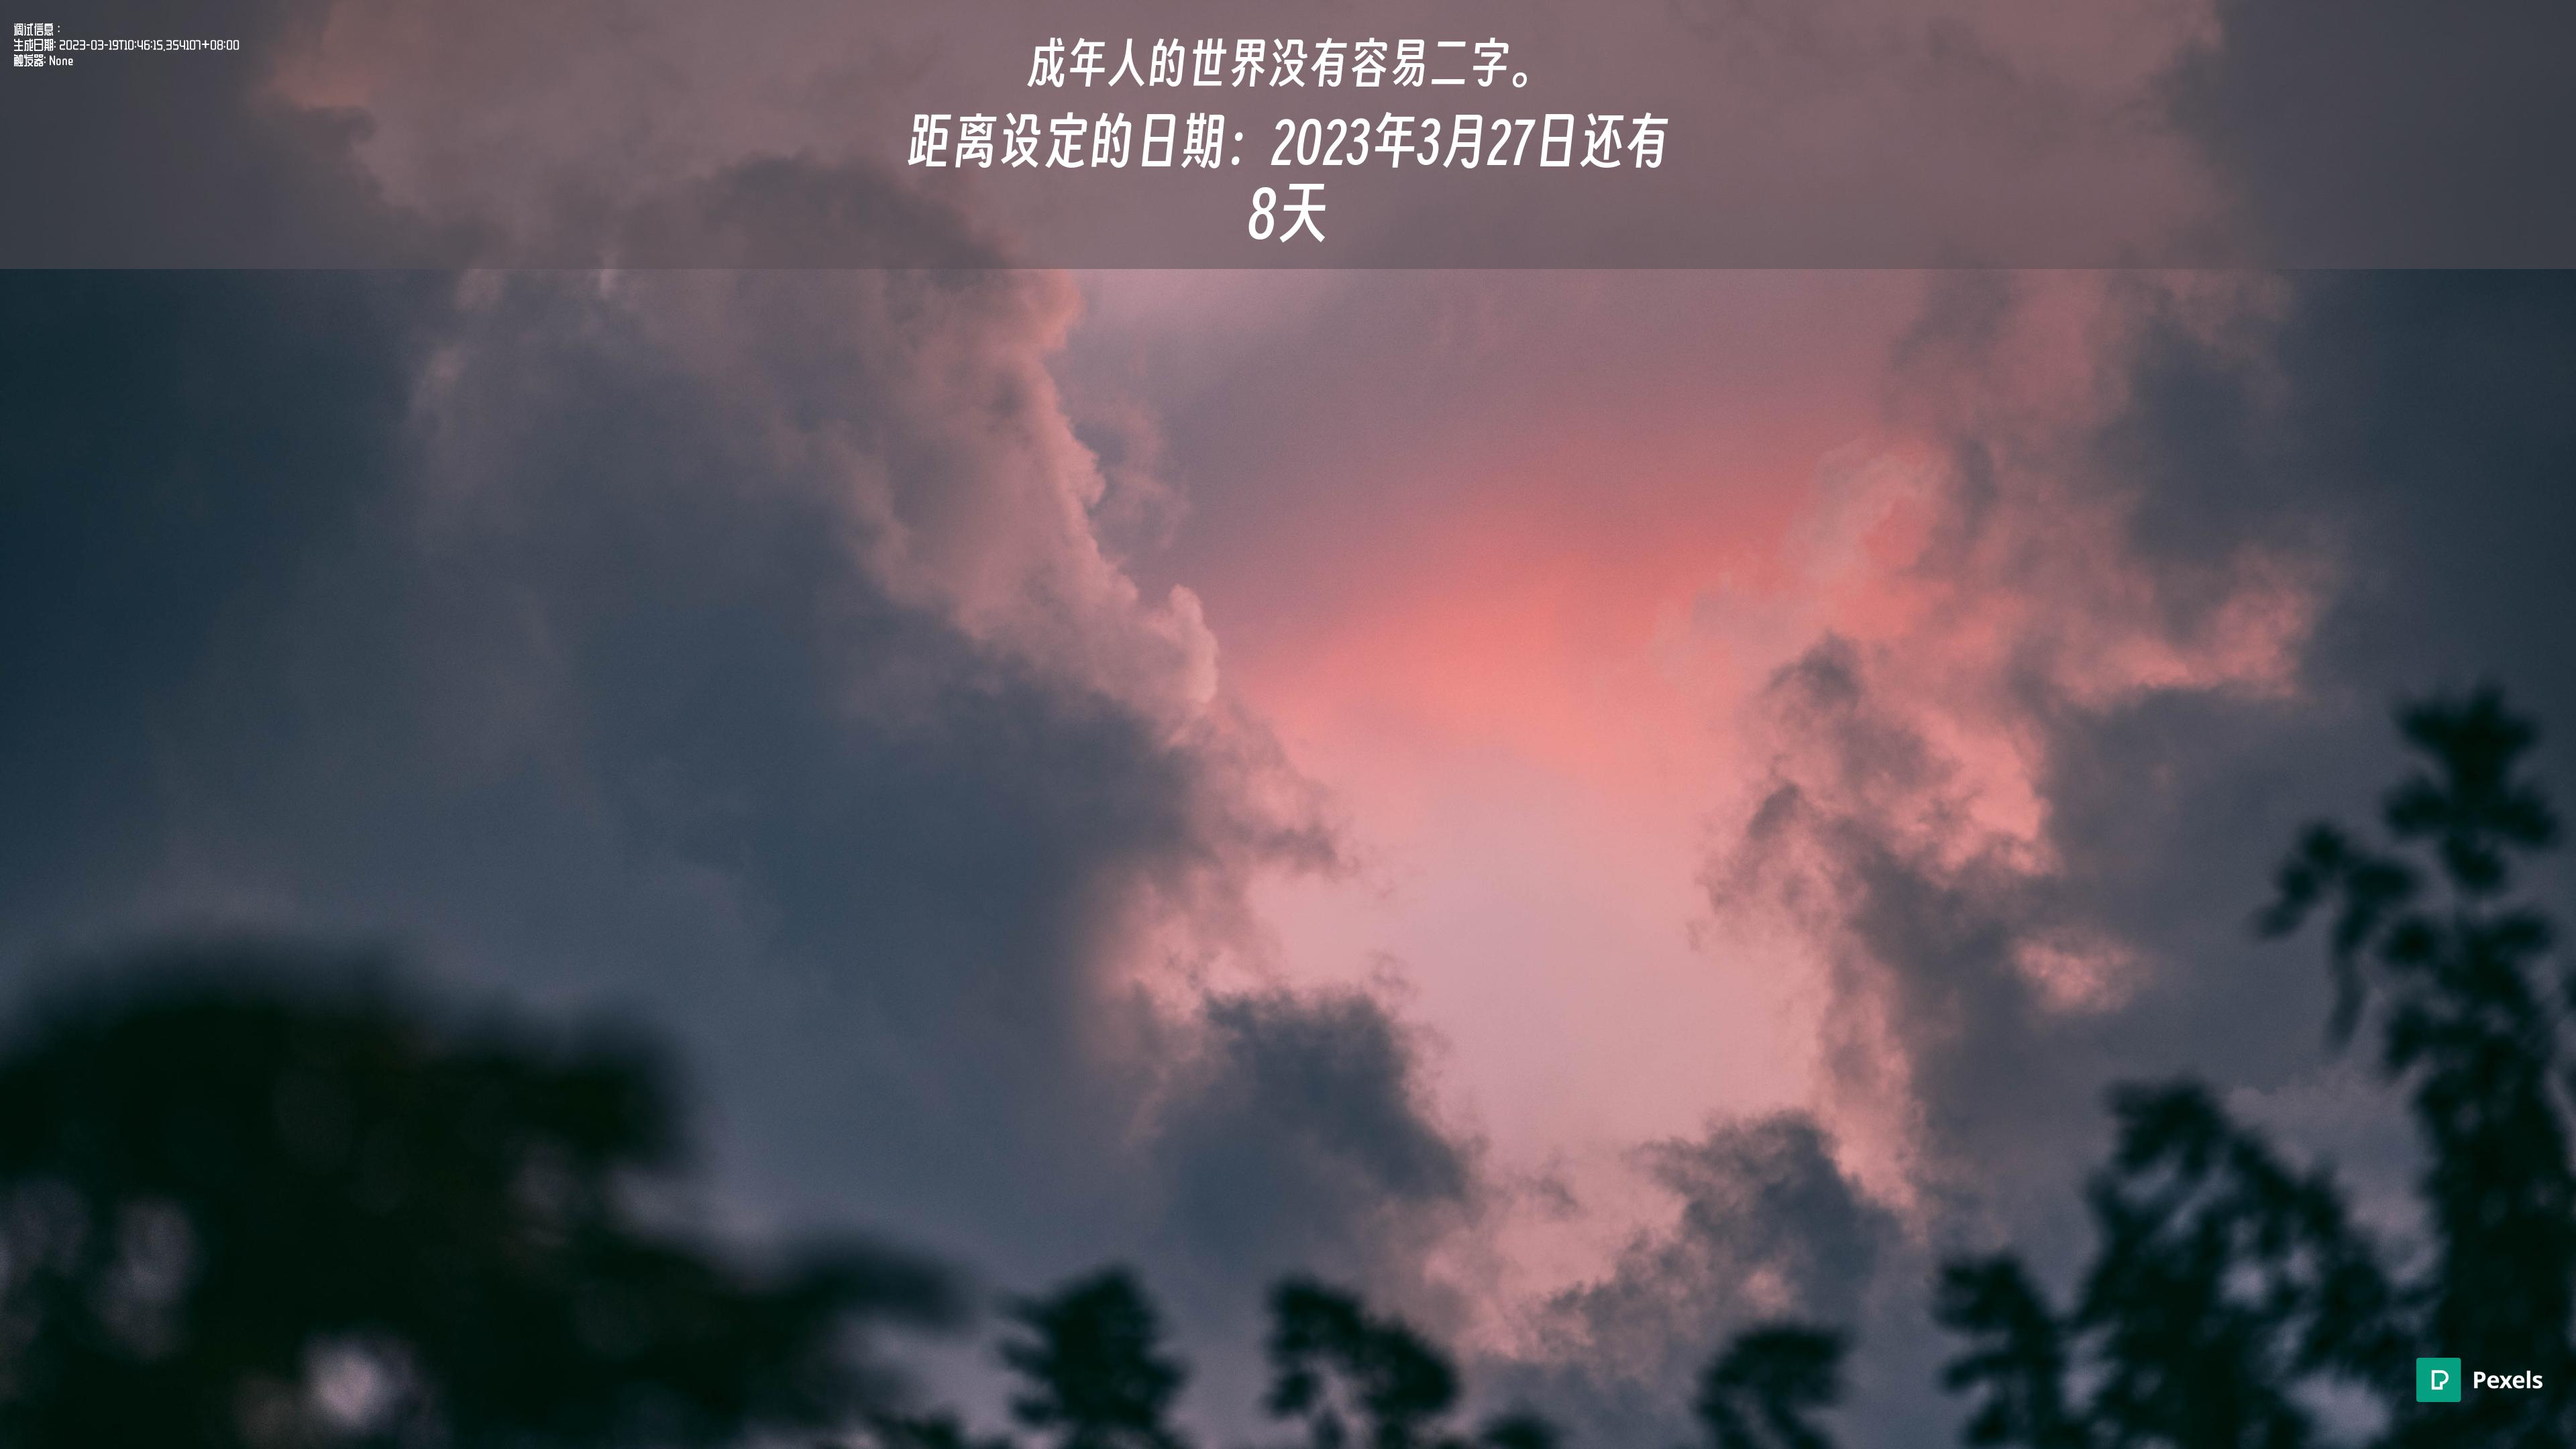
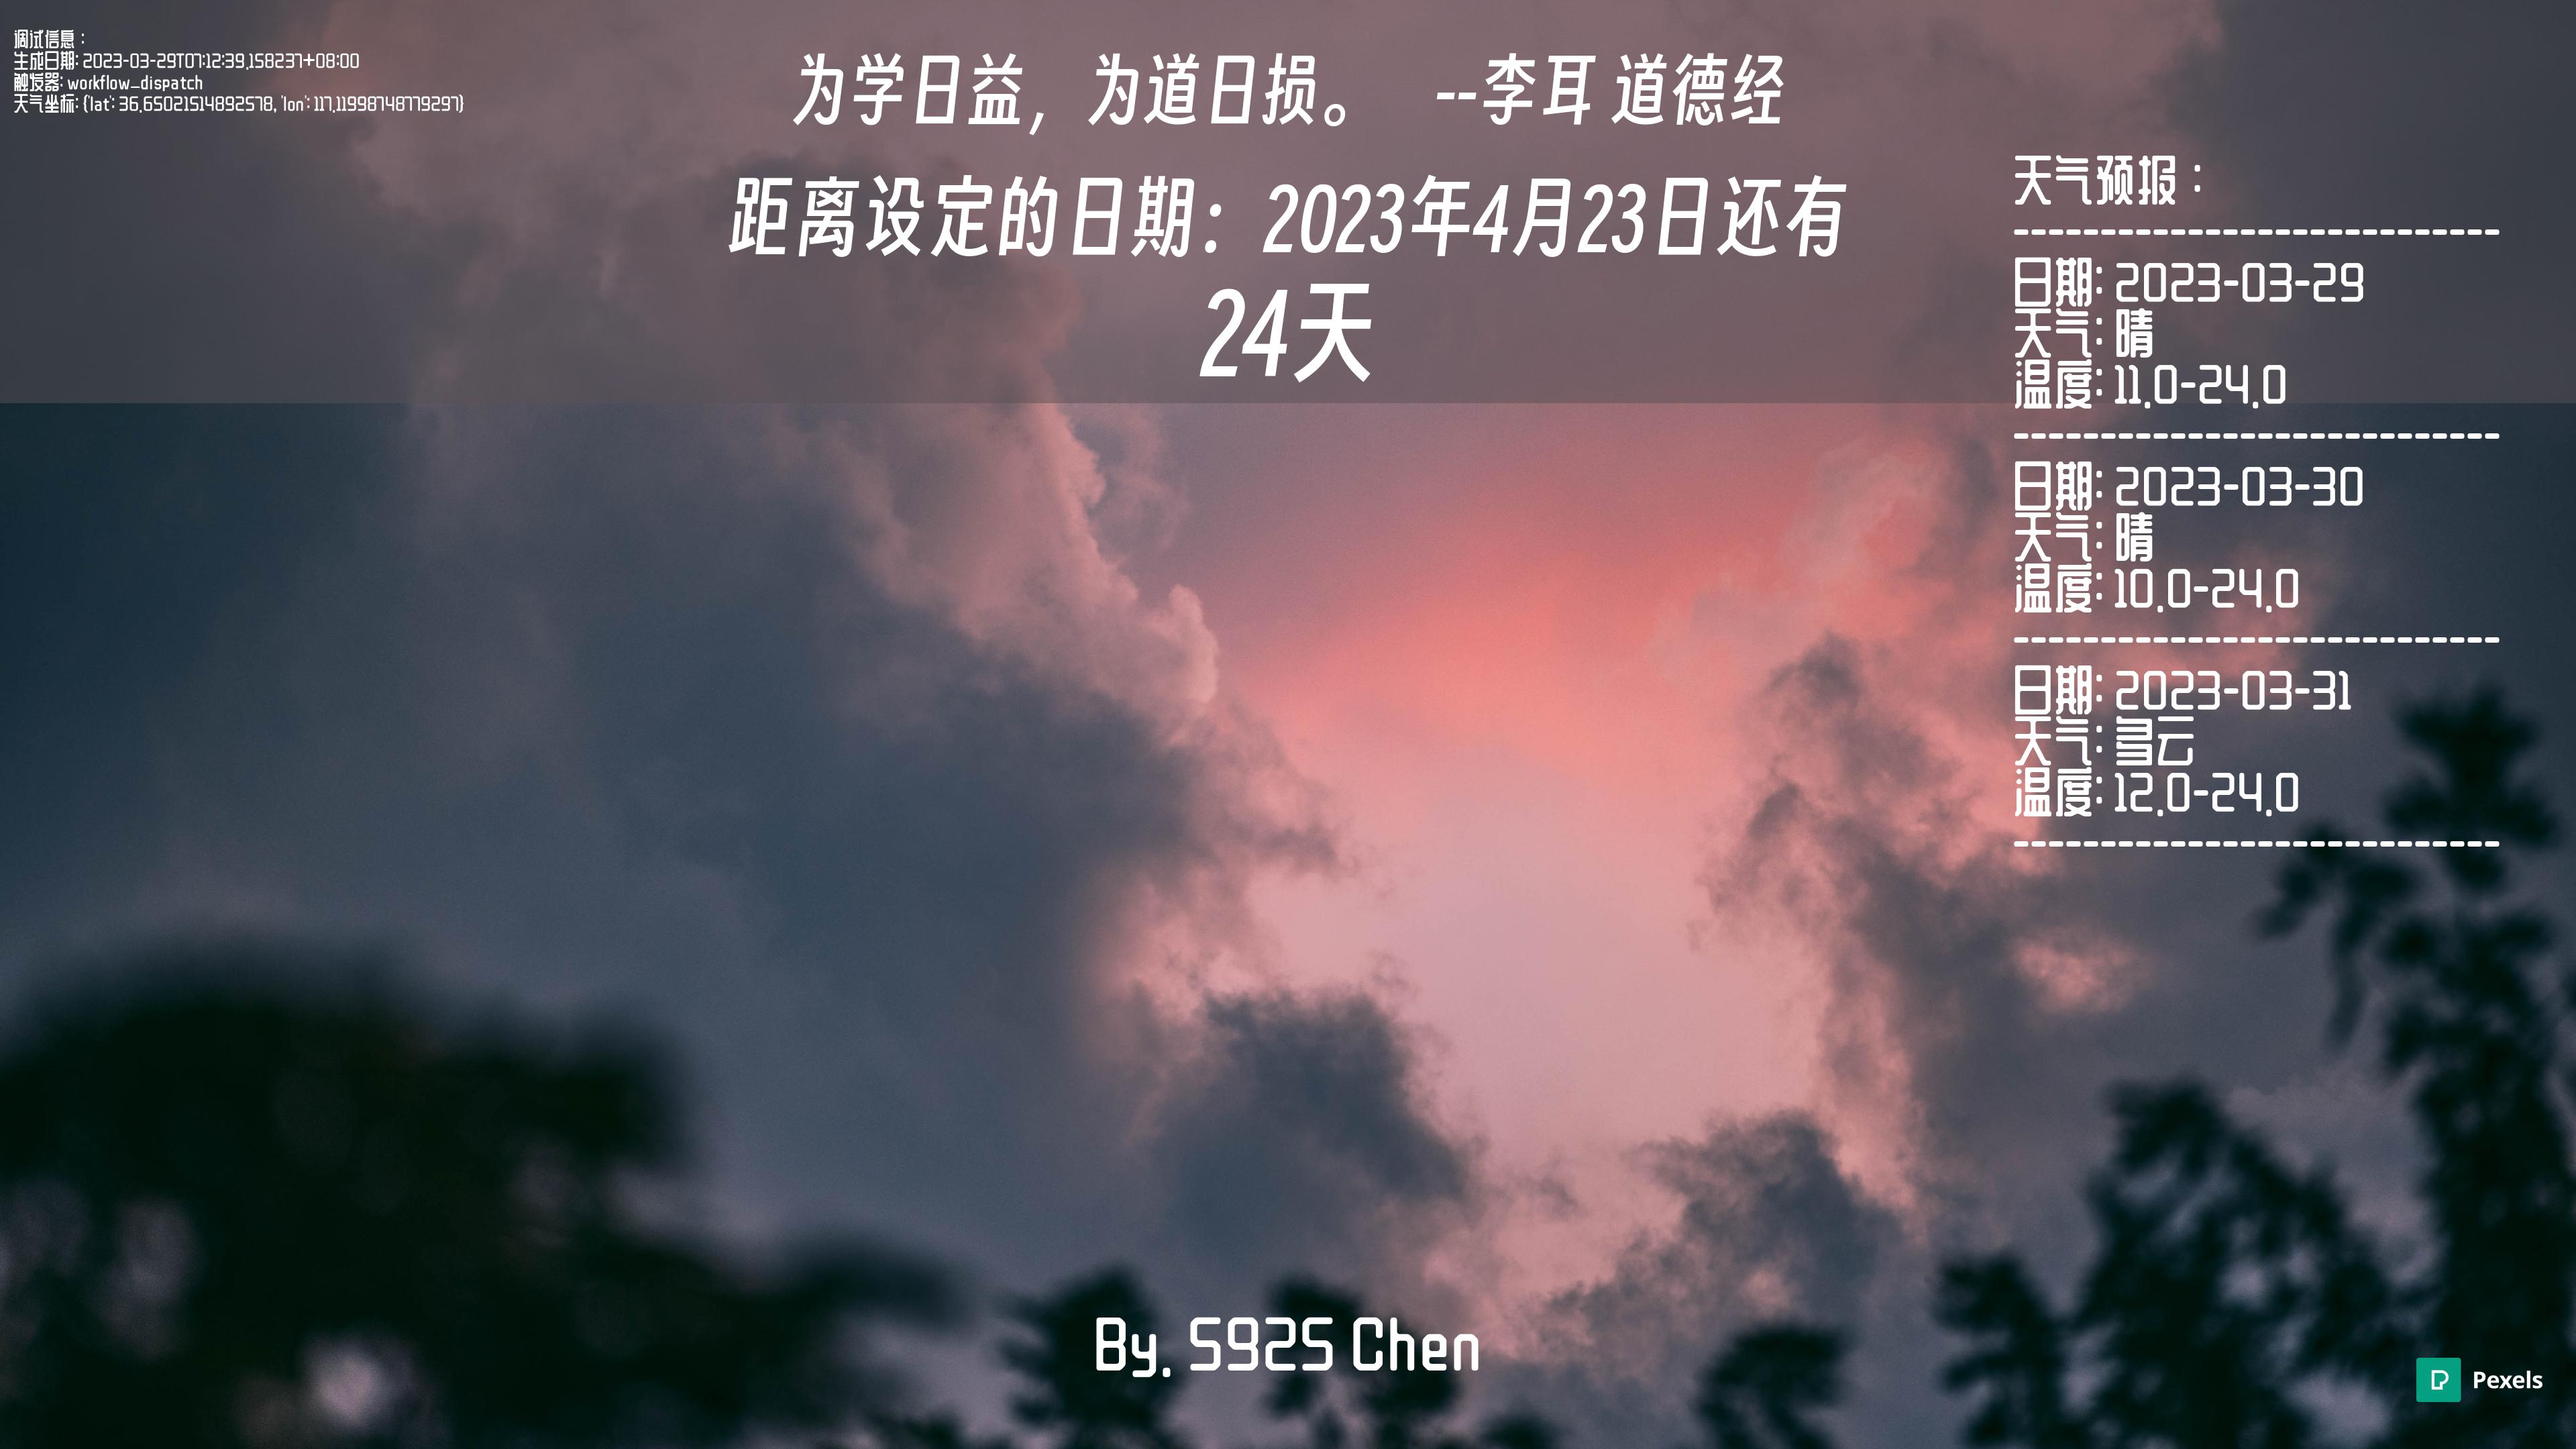
deploy: 321479db3a50c2018bc45c662e1075fe6346fb4c

diff --git a/background/index.html b/background/index.html
@@ -992,6 +992,27 @@ Automation: <a href="../backgrounds/6DEBB2.exe">Link</a></p>
 <td align="center"><a href="../backgrounds/3374210.jpg">图片链接</a></td>
 <td align="center">schedule</td>
 </tr>
+<tr>
+<td align="center">2023-03-29</td>
+<td align="center">2762179</td>
+<td align="center">为学日益，为道日损。</td>
+<td align="center"><a href="../backgrounds/2762179.jpg">图片链接</a></td>
+<td align="center">workflow_dispatch</td>
+</tr>
+<tr>
+<td align="center">2023-03-29</td>
+<td align="center">1631677</td>
+<td align="center">生命中，再无聊的时光，也都是限量版。</td>
+<td align="center"><a href="../backgrounds/1631677.jpg">图片链接</a></td>
+<td align="center">workflow_dispatch</td>
+</tr>
+<tr>
+<td align="center">2023-03-29</td>
+<td align="center">585759</td>
+<td align="center">宣父犹能畏后生，丈夫未可轻年少。</td>
+<td align="center"><a href="../backgrounds/585759.jpg">图片链接</a></td>
+<td align="center">workflow_dispatch</td>
+</tr>
 </tbody>
 </table>
 
